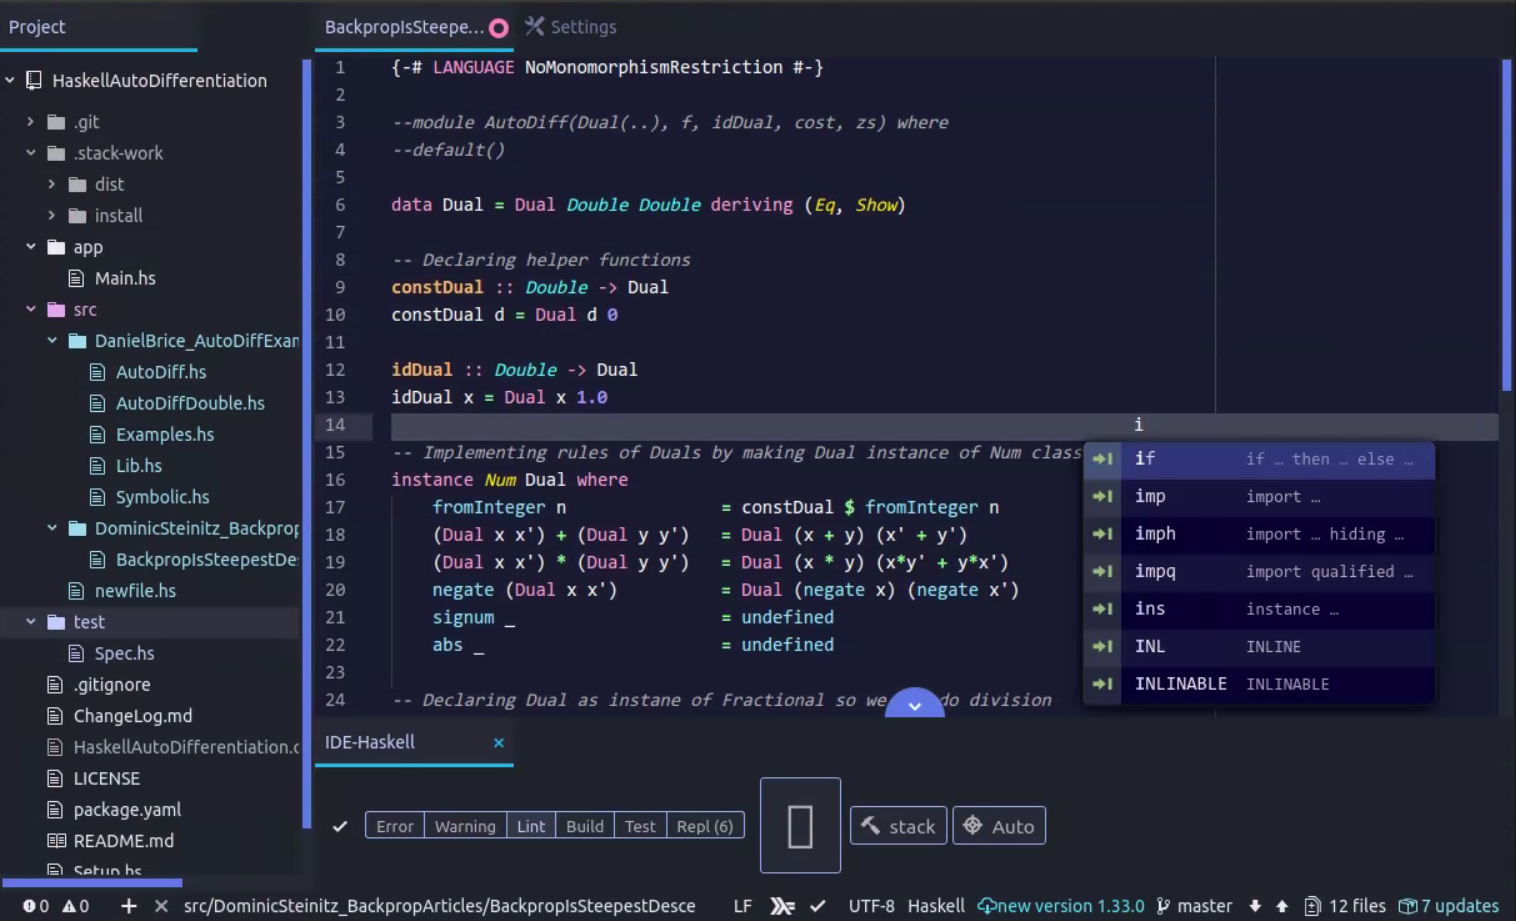
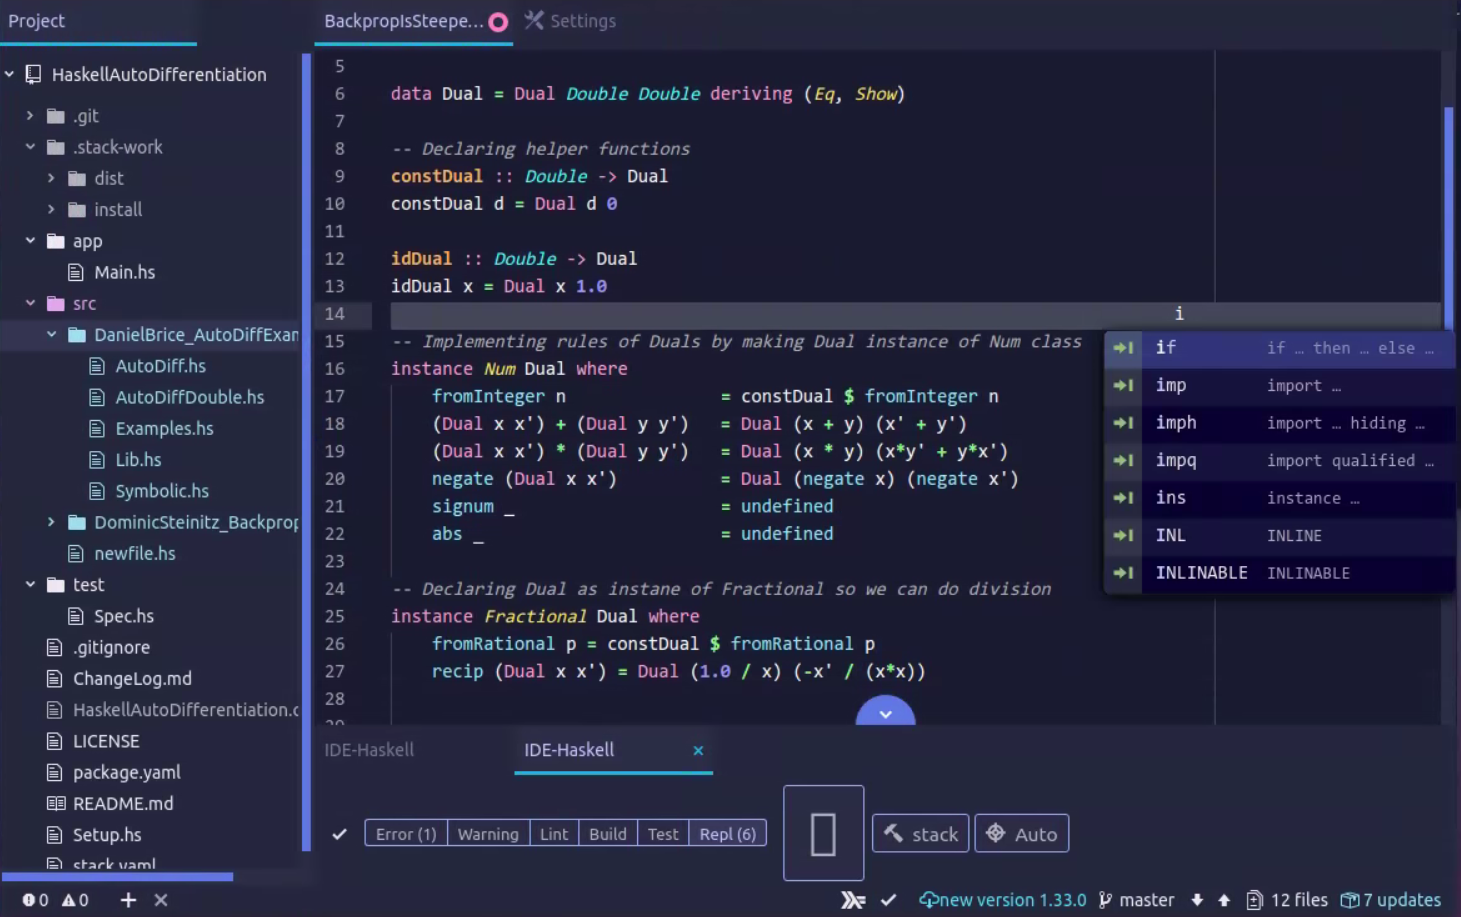
updated picture and background of atom panels

Changed region(s): [[0.0, 0.0, 1.0, 1.0]]

diff --git a/styles/ui-variables.less b/styles/ui-variables.less
@@ -33,7 +33,7 @@
 @white: #ffffff;
 @black: #000000;
 
-@ui-background:   hsl(231, 15%, 18%);
+@ui-background:   #2c2d47; //#2a2b47; //#2d2e4f; //changed hsl(231, 15%, 18%);
 @ui-currentline:  hsl(232, 14%, 31%);
 @ui-selection:    hsl(232, 14%, 31%);
 @ui-foreground:   hsl(60, 30%, 96%);
@@ -156,7 +156,7 @@
 
 @text-color-info:    @ui-cyan;
 @text-color-success: @ui-green; //changed to check tree view @ui-green;
-@text-color-warning: @cyan; //changed @ui-purple;
+@text-color-warning: @ui-purple; //changed TODO @cyan; //changed @ui-purple;
 @text-color-error:   @ui-red;
 
 @text-color-added:    @ui-cyan; //changed @text-color-success;
